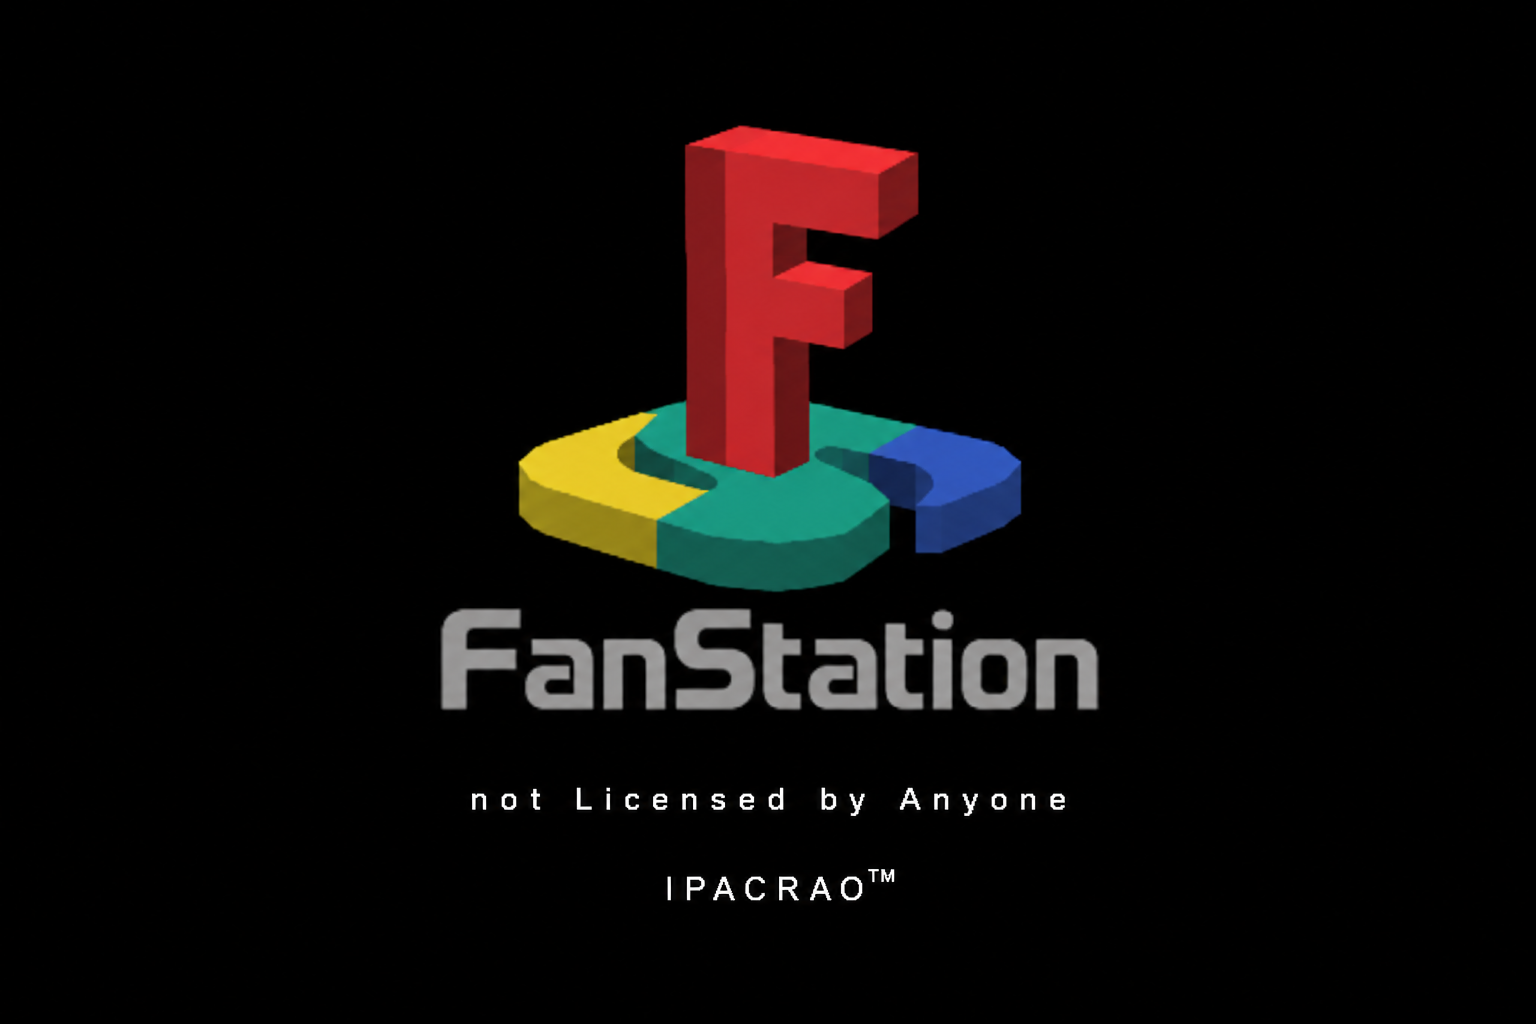
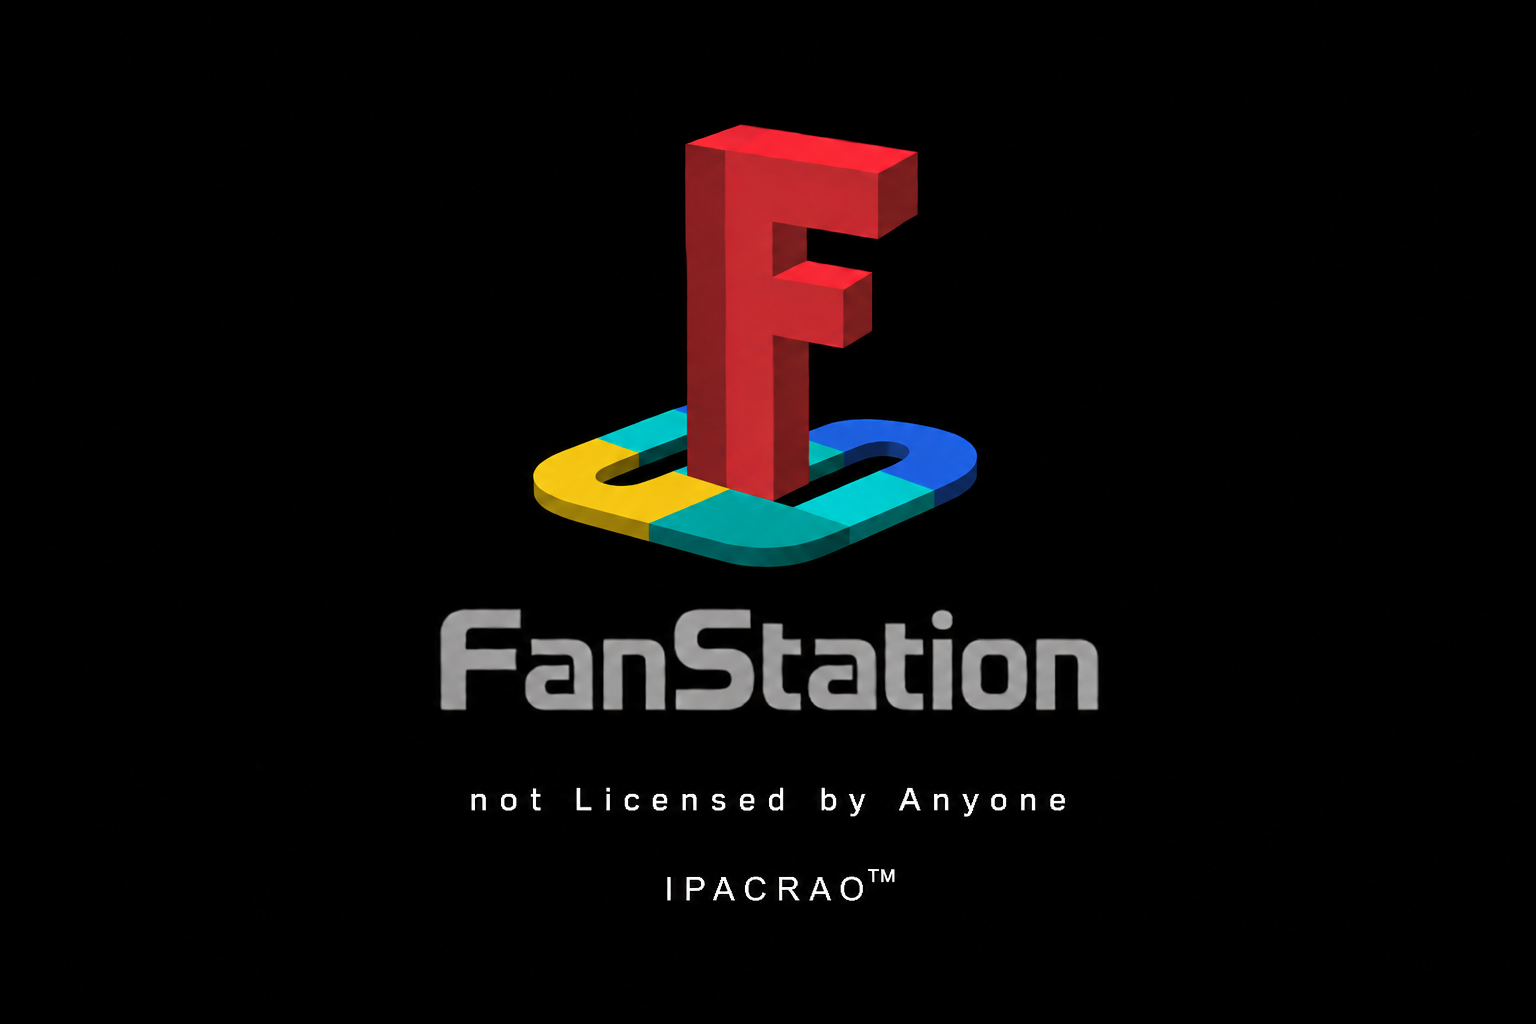
FanStation finds its S: the base becomes a ribbon
The flat S under the F was a chunky broken ring with a detached blue
lump; it read as a pedestal, not a letter. Two Codex edit passes redrew
only that shape: one continuous slim ribbon of even width, strongly
foreshortened, curling into two loops around long slots, with yellow,
teal, cyan and blue bands cutting across it. The F, the wordmark, and
the legal copy are untouched.

source/ keeps both edit briefs and the base brief now describes the
ribbon, so a regeneration starts from the right shape.

diff --git a/assets/boot/source/brief_fanstation.md b/assets/boot/source/brief_fanstation.md
@@ -7,7 +7,7 @@ Attached image: role = layout and mood reference ONLY. Match its overall arrange
 Canvas: landscape 3:2. Pure flat black background (#000000) edge to edge. No vignette, no glow haze, no stars, no border, no frame.
 
 Layout (everything horizontally centered, generous empty margins):
-1. Upper middle: the emblem. A tall capital letter "F" built as a thick red upright slab with visible side thickness in darker red, standing on a capital letter "S" that lies flat on the ground plane in perspective. The S is split into three colored segments: yellow on the left, teal-green in the middle, blue on the right. Flat-shaded, low-polygon, early 3D computer-graphics look from the mid 1990s. The F must clearly be an F: one vertical stem with TWO horizontal arms pointing right, the top arm longer and the middle arm shorter, and NO closed bowl or loop anywhere.
+1. Upper middle: the emblem. A tall capital letter "F" built as a thick red upright slab with visible side thickness in darker red, standing on a capital letter "S" that lies flat on the ground plane in perspective. The S is ONE continuous slim ribbon of constant width and thin plate thickness, strongly foreshortened, curling into a left loop and a right loop that each wrap a long narrow slot; its width on screen is about twice the width of the F. Flat color bands cut straight across the ribbon: yellow on the left loop, teal-green and cyan through the middle, blue on the right loop. No thick slabs, no detached pieces, no ring or pedestal shape. Flat-shaded, low-polygon, early 3D computer-graphics look from the mid 1990s. The F must clearly be an F: one vertical stem with TWO horizontal arms pointing right, the top arm longer and the middle arm shorter, and NO closed bowl or loop anywhere.
 2. Below the emblem: the wordmark "FanStation" in mid-grey, a rounded geometric sans-serif. Capital F, lowercase a-n, capital S, lowercase t-a-t-i-o-n.
 3. Below the wordmark: a small legal block in white, wide-tracked sans-serif, slightly crunchy like a console BIOS font, centered:
    line 1: "not Licensed by Anyone"

diff --git a/assets/boot/source/brief_fanstation_fix_pass2.md b/assets/boot/source/brief_fanstation_fix_pass2.md
@@ -1,0 +1,19 @@
+Task: EDIT the first attached image (also saved as ./card_fanstation_src.png) with the built-in image_gen tool, then copy the final PNG to ./card_fanstation_fix.png in the current working directory. Do not create or modify any other file. Finish by reporting the saved path.
+
+Attached images and their roles:
+1. card_fanstation_src.png = EDIT TARGET.
+2. s_shape_ref.png = SHAPE REFERENCE for the flat S only. Ignore its red letter completely; it must not appear in the result.
+
+Change requested: tighten the flat S under the red F so its silhouette matches the reference S more closely. Redraw only the S.
+
+Target silhouette: a slim ribbon S lying flat, strongly foreshortened. Its left loop sits slightly nearer the viewer and its right loop slightly farther away, so the S runs on a gentle diagonal. Each loop wraps a long, narrow slot. The ribbon keeps one constant width along its whole path and the plate stays thin. The outline is smooth and taut, with no bulges and no wide slab at the front.
+
+Colors stay as flat bands cutting straight across the ribbon: yellow on the left loop, teal-green and cyan through the middle, blue on the right loop.
+
+The red F keeps standing in the middle of the S, on its center stroke.
+
+Invariants, do not change: the red F exactly as drawn, the "FanStation" wordmark, the legal lines "not Licensed by Anyone" and "IPACRAO" with its small TM, positions, sizes, and the pure black background.
+
+Exact text, verbatim and case-sensitive, nothing added or removed: "FanStation", "not Licensed by Anyone", "IPACRAO", "TM".
+
+Avoid: the letter P anywhere, any real company's wordmark, thick slabs, detached pieces, notches, a plain rounded rectangle, extra objects, glow, extra text, watermark.

diff --git a/assets/boot/source/brief_fanstation_fix_pass1.md b/assets/boot/source/brief_fanstation_fix_pass1.md
@@ -1,0 +1,13 @@
+Task: EDIT the first attached image (also saved as ./card_fanstation_src.png) with the built-in image_gen tool, then copy the final PNG to ./card_fanstation_fix.png in the current working directory. Do not create or modify any other file. Finish by reporting the saved path.
+
+Attached images and their roles:
+1. card_fanstation_src.png = EDIT TARGET.
+2. s_shape_ref.png = SHAPE REFERENCE for one element only: the flat S lying on the ground. Match that S's silhouette, proportions, thinness, viewing angle and the way its color bands cut across the ribbon. Ignore the red letter in the reference completely; it must not appear in the result.
+
+Change requested: replace the lumpy multicolored base under the red F with a flat capital S that matches the reference S's form: a slim, smooth ribbon laid flat, foreshortened by perspective, curling into two long loops with slot-shaped openings, colored in clean bands of yellow, teal-green and blue. Yellow on the left end, blue on the right end. One continuous piece with even stroke width and a thin edge. The red F stays standing in the middle of it.
+
+Everything else is an invariant and must not change: the red F exactly as drawn, the "FanStation" wordmark, the legal lines "not Licensed by Anyone" and "IPACRAO" with its small TM, positions, sizes, and the pure black background.
+
+Exact text, verbatim and case-sensitive, nothing added or removed: "FanStation", "not Licensed by Anyone", "IPACRAO", "TM".
+
+Avoid: the letter P anywhere, any real company's wordmark, thick slabs, detached pieces, notches, a ring or pedestal shape, extra objects, glow, extra text, watermark.

diff --git a/assets/boot/README.md b/assets/boot/README.md
@@ -53,7 +53,10 @@ emblem its breathing room; the final `-resize` is the softness knob.
 To repair one detail of a card that is otherwise right, EDIT it instead of
 rerolling: attach the source art and name the single change plus everything
 that must stay. `source/brief_fony_fix.md` is the pass that squared up the
-diamond's right point:
+diamond's right point; `source/brief_fanstation_fix_pass1.md` then `_pass2.md`
+are the two passes that turned the FanStation base into a slim ribbon S
+(pass 2 edits the result of pass 1). Those passes also attached a reference
+screenshot as a shape guide for the S only; it is not kept in the repo.
 
     codex exec --skip-git-repo-check -s workspace-write \
         -i source/card_fony_src.png < source/brief_fony_fix.md
